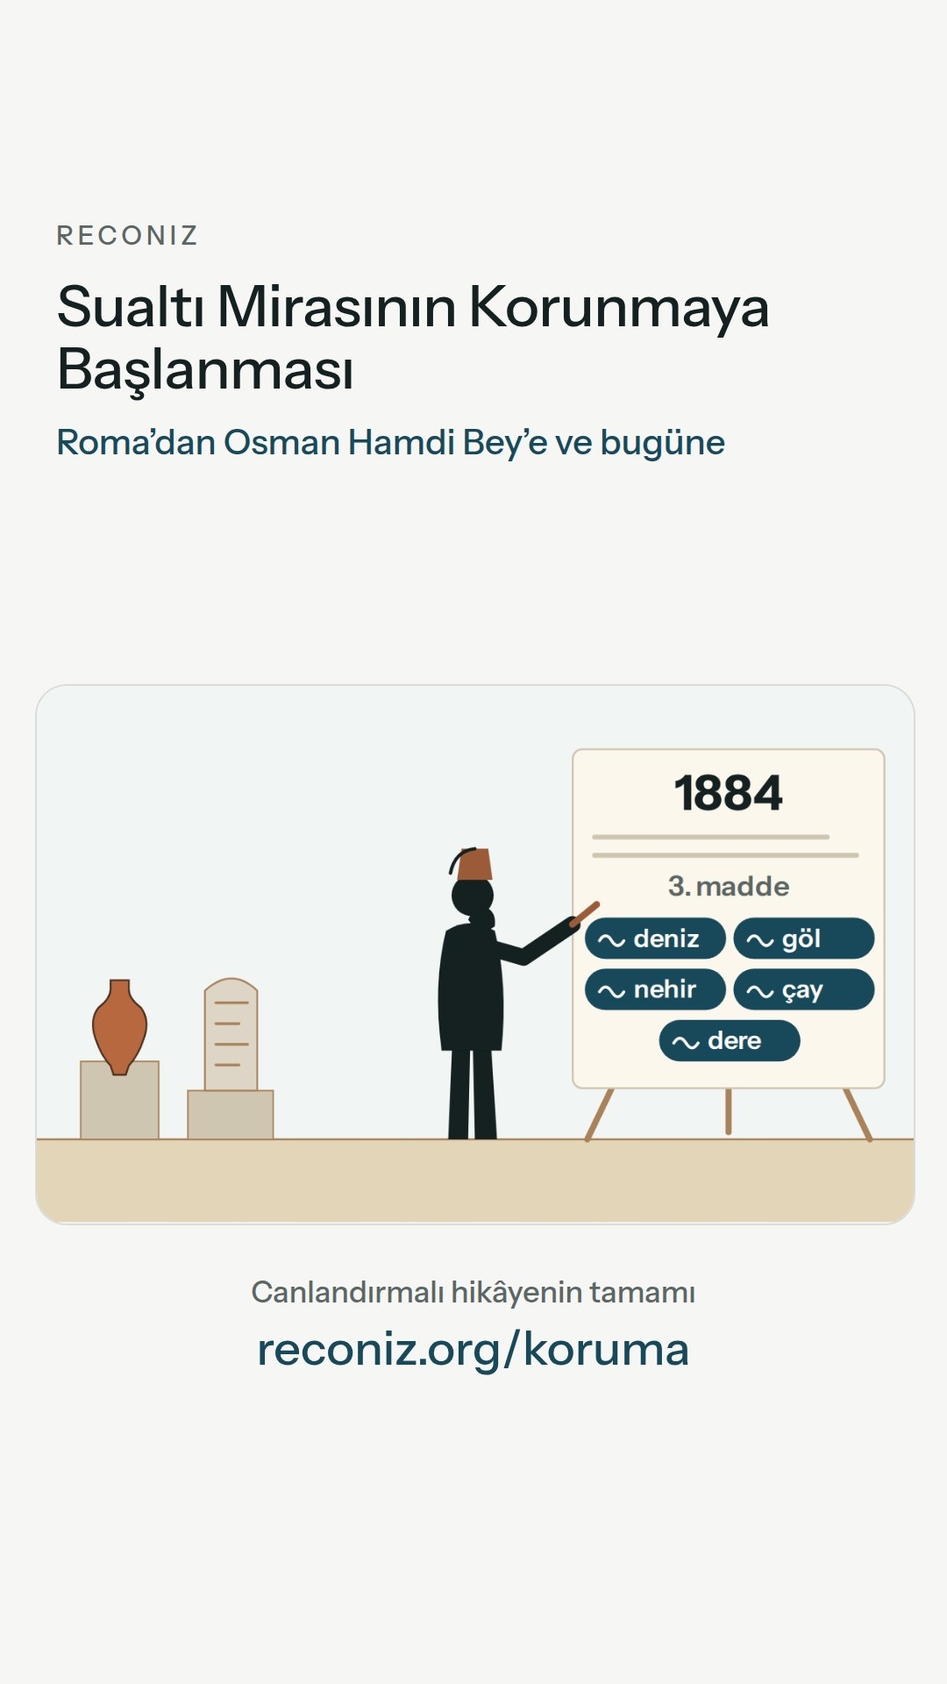
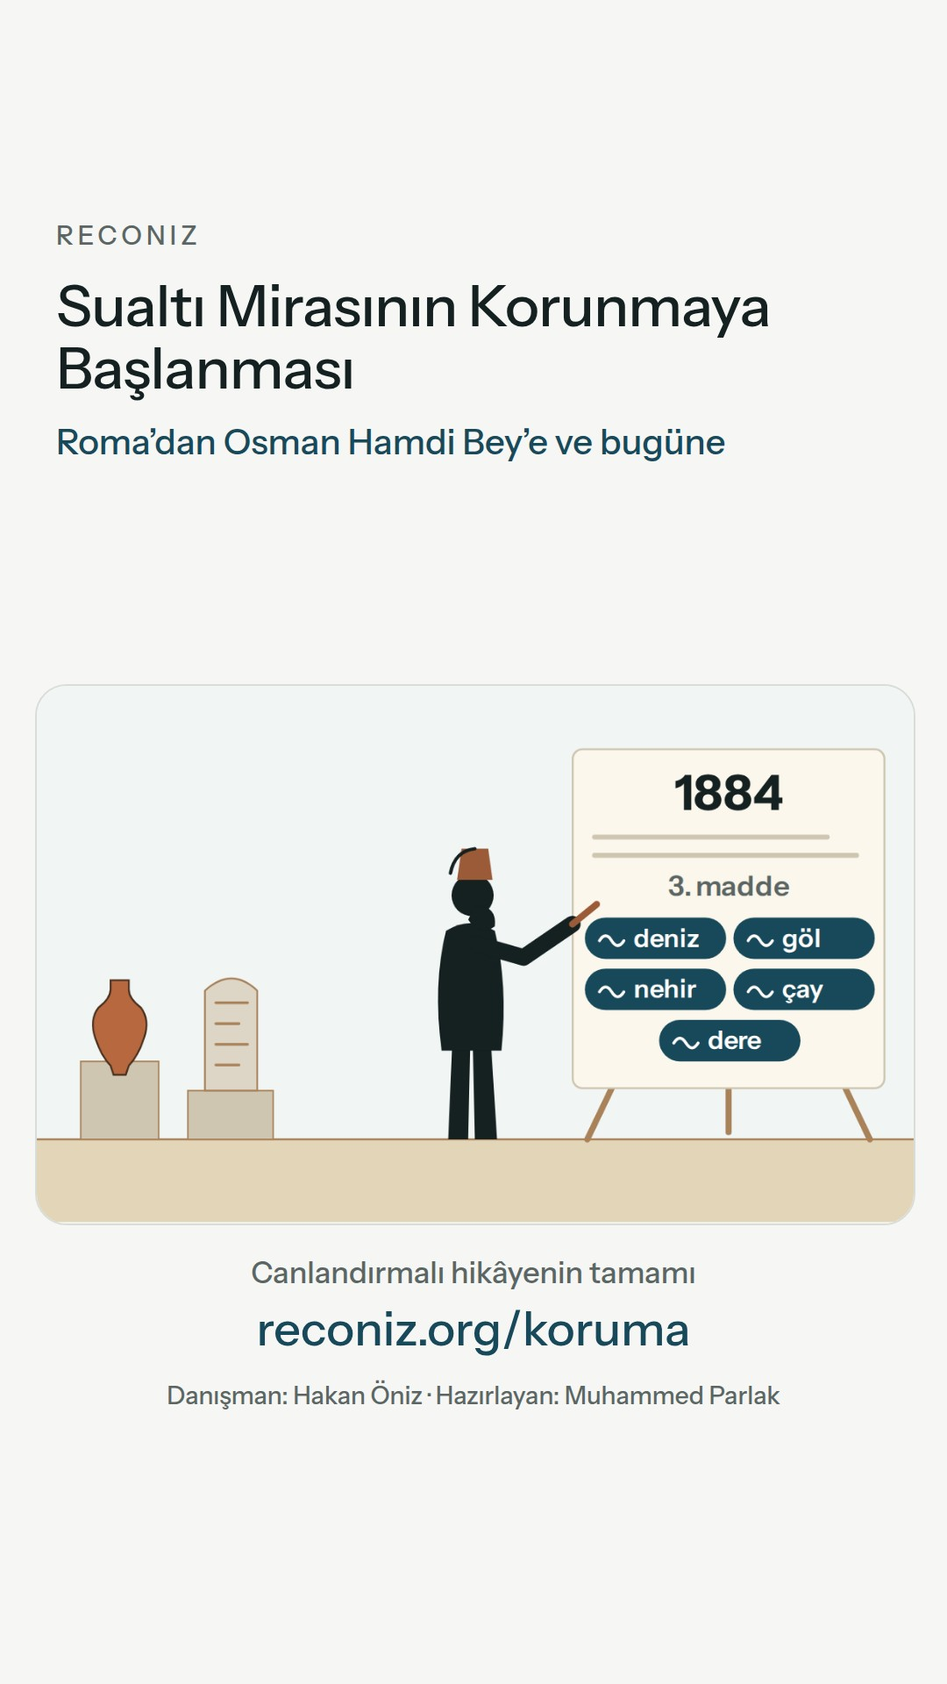
Adrasan: Çiçero girişi yayımlanmış bilgilerle sınırlandı; hikâye görsellerine danışman ve hazırlayan adı
Claude-Session: https://claude.ai/code/session_01KpGqkUWi5wxkv8FByy6VdA

Changed region(s): [[0.1833, 0.75, 0.825, 0.8438]]

diff --git a/onem/index.html b/onem/index.html
@@ -342,7 +342,7 @@ tr:{title:"Sualtı Mirasının Önemi ve Korunma Gerekçeleri",
  h1:"Sualtı Mirasının Önemi ve Korunma Gerekçeleri",
  lede:"Sualtı mirası neden önemlidir? Cevabı, iki bin yüz yıl önce yazılmış bir mektup ile aynı yüzyılda batmış bir geminin yükü birlikte veriyor.",
  S:[`MÖ 50 yılının şubatında Romalı devlet adamı Çiçero, valisi olduğu Kilikya’dan dostu Atticus’a bir mektup yazar.${n(1)}`,
-  `Mektubun bir satırı sofra takımı üzerinedir: “Rhosus kaplarını ısmarladım.” Ardından dostuna takılır: bizi hep süslü tabaklarda ağırlarsın, bakalım toprak kaplarda ne ikram edeceksin?${n(1)}`,
+  `Mektubun bir satırı sofra kapları üzerinedir: “Rhosus kaplarını ısmarladım.”${n(1)}`,
   `Rhosus, bugünkü Hatay’ın Arsuz ilçesidir. O yüzyılda İskenderun Körfezi kıyılarında kırmızı astarlı, ince sofra kapları üretilir; Doğu Akdeniz’in başlıca sofra kabı üretimlerinden biridir ve arkeologlar ona Doğu Sigillatası A der.${n(2)}`,
   `Aynı yüzyılın ortalarında bu kaplarla dolu bir gemi yola çıkar. Tabaklar, kâseler ve tepsiler ahşap sandıklara yerleştirilmiş, kırılmasınlar diye aralarına kil konmuştur.${n(3)}`,
   `Gemi Likya kıyısını izlerken, bugünkü Adrasan’ın önünde, büyük olasılıkla kıyıya yakın görünmeyen bir sığlığa çarpar ve batar.${n(4)}`,
@@ -351,19 +351,19 @@ tr:{title:"Sualtı Mirasının Önemi ve Korunma Gerekçeleri",
   `Kazı başlayınca sandıkların içindeki düzen de ortaya çıkar. Kaplar yüklendikleri gibi üst üste durmaktadır: 122 ayrı biçim ve boyda, aralarındaki kil sayesinde sağlam.${n(3)} Bugün bile, bütün modern yöntemlere rağmen, bir seramik tabağı kargoyla sağlam ulaştırmak güçtür; iki bin yıl dayanan bu yöntem belki yeniden ilham olur.`,
   `Bu, karada kolay ele geçmeyecek bir şeydir. Aynı kaplar kara kazılarında çoğu zaman kırık parçalar hâlinde, tek tek çıkar; burada ise bir geminin bütün yükü, yüklendiği günkü düzeniyle durur.`,
   `Yük aynı zamanda bir yolu gösterir. Kaplar doğuda, İskenderun Körfezi kıyısında üretilmiş, gemi ise oradan çok uzakta, batıda, Likya kıyısında batmıştır; batık, o ticaret yolunun üzerindeki bir noktadır.${n(2)}`,
-  `Asıl şaşırtıcı olan, yükün bir mektupla buluşmasıdır. Çiçero’nun bir satırda andığı kaplar ile deniz dibindeki tabaklar aynı kıyıdan, aynı yüzyıldan gelir. Mektup kabın adını verir, batık kabın kendisini. Arkeologlar bu eşleşmeyi kesin bir sonuç olarak değil, güçlü bir öneri olarak görür.${n(6)}`,
+  `Asıl şaşırtıcı olan, yükün bir mektupla buluşmasıdır. Çiçero’nun bir satırda andığı kaplar ile deniz dibindeki tabaklar aynı kıyıdan, aynı yüzyıldan gelir. Mektup kabın adını verir, batık kabın kendisini. Arkeologlar bu eşleşmeyi kesin bir sonuç olarak değil, gerekçeli bir öneri olarak görür.${n(6)}`,
   `Sualtı mirasını özel kılan budur: su, karada dağılıp gidecek olanı bir arada tutar; batıklar, kıyıları birbirine bağlayan yolları gösterir; dipteki eser, yazılı kaynağın anlattığını tamamlar.`,
   `Böyle yerlerin sayısı az değildir. Dünyanın sularında üç milyondan fazla batık ve batık yerleşim olduğu tahmin edilir; insanlık tarihinin büyük bölümünde deniz bugünkünden 40–130 metre alçak olduğu için, tarih öncesinin kıyıları da su altındadır.${n(7)}`,
   `Hiçbiri yenilenemez. Adrasan’daki sandıklardan tabaklar tek tek alınsaydı düzen dağılır, geriye yalnızca güzel kaplar kalırdı. Sualtı mirası yerinde ve bir arada durduğu sürece konuşur; korunma gerekçesi de budur.${n(8)}`],
- L:{shoal:"görünmeyen sığlık",cic:"Çiçero · Laodikeia, MÖ 50",ant:"Antalya",cyp:"Kıbrıs",km:"≈ 500 km",cil:"Kilikya",lyc:"Likya",rh:"Rhosus (Arsuz)",clay:"aralarında kil",depth:"38–46 m",au:"Akdeniz Üniversitesi",forms:"122 biçim ve boy",land:"karada: kırık parçalar",seaL:"denizde: bütün bir yük",ad:"Adrasan",prop:"kesin değil, güçlü bir öneri",
+ L:{shoal:"görünmeyen sığlık",cic:"Çiçero · Laodikeia, MÖ 50",ant:"Antalya",cyp:"Kıbrıs",km:"≈ 500 km",cil:"Kilikya",lyc:"Likya",rh:"Rhosus (Arsuz)",clay:"aralarında kil",depth:"38–46 m",au:"Akdeniz Üniversitesi",forms:"122 biçim ve boy",land:"karada: kırık parçalar",seaL:"denizde: bütün bir yük",ad:"Adrasan",prop:"kesin değil, gerekçeli bir öneri",
    pil:["bir arada","yollar","yazıyla birlikte"],lvl:"eski kıyı: 40–130 m aşağıda",wr:"batık ve batık yerleşim (tahmin)",insitu:"yerinde ve bir arada"},
  aH:"Rhosus kapları gerçekten bunlar mı?",
- aP:`Doğu Sigillatası A’nın üretim yeri, kil analizlerine ve kapların dağılımına bakılarak İskenderun Körfezi kıyısında aranır. Bu kapların Çiçero’nun andığı “Rhosica vasa” olduğu görüşü ikna edicidir, ama kesinleşmesi için bölgede yeni arazi çalışması gerekir. Bu sayfa da eşleşmeyi bir öneri olarak anlatır.${n(6)}`,
+ aP:`Doğu Sigillatası A’nın üretim yeri, kil analizlerine ve kapların dağılımına bakılarak İskenderun Körfezi kıyısında aranır. Bu kapların Çiçero’nun andığı “Rhosica vasa” olduğu görüşü gerekçeli bir öneridir; sınanabilmesi için Arsuz’da yeni arazi çalışması gerekir. Bu sayfa da eşleşmeyi bir öneri olarak anlatır.${n(6)}`,
  bH:"Adrasan batığı bugün",
- bP:`Batık, Akdeniz Üniversitesi’nin sualtı araştırmasında bulunmuş ve 2023’te yayımlanmıştır. Kazı, Kültür ve Turizm Bakanlığı’nın sorumluluğunda sürmektedir; 2026’da açıklanan sonuçlara göre binlerce kap çıkarılmış, çalışmalarda sualtı robotlarından da yararlanılmıştır.${n(9)}`,
+ bP:`Batık, Akdeniz Üniversitesi’nin sualtı araştırmasında bulunmuş, 2023’te Hakan Öniz ve Emre Okan tarafından yayımlanmıştır. Kazı, Kültür ve Turizm Bakanlığı’nın sorumluluğunda sürmektedir; 2026’da açıklanan sonuçlara göre binlerce kap çıkarılmış, çalışmalarda sualtı robotlarından da yararlanılmıştır.${n(9)}`,
  cH:"Onu ne tehdit eder?",
  cP:`Böyle bir batığı deniz kurdu, hatıra toplayan dalgıçlar, gemi çapaları, balıkçılık ve kıyıdaki yapılaşma tehdit eder. Yük bir arada ve yerinde durdukça okunabilir; dağıldığında anlattığı da dağılır.${n(8)}`,
- N:["Cicero (MÖ 50, 6.1.13).","Lund vd. (2006); Kalyoncuoğlu (2026).","Kalyoncuoğlu (2026).","Öniz ve Okan (2023).","Öniz ve Okan (2023); Levantine Ceramics Project (2026).","Lund vd. (2006); Carvajal (2026).","Khalil (2024, s. 12).","Öniz ve Okan (2023).","Öniz ve Okan (2023); Kalyoncuoğlu (2026)."],
+ N:["Cicero (MÖ 50, 6.1.13); Carvajal (2026).","Lund vd. (2006); Kalyoncuoğlu (2026).","Kalyoncuoğlu (2026).","Öniz ve Okan (2023).","Öniz ve Okan (2023); Levantine Ceramics Project (2026).","Lund vd. (2006); Carvajal (2026).","Khalil (2024, s. 12).","Öniz ve Okan (2023).","Öniz ve Okan (2023); Kalyoncuoğlu (2026)."],
  refH:"Kaynaklar", notesH:"Notlar", refNote:"Kaynakça APA 7. baskı biçimindedir.",
  hint:"Kaydırarak ilerleyin",
  useH:"Kullanım",
@@ -377,7 +377,7 @@ en:{title:"Why Underwater Heritage Matters and Why It Must Be Protected",
  h1:"Why Underwater Heritage Matters and Why It Must Be Protected",
  lede:"Why does underwater heritage matter? The answer is given jointly by a letter written two thousand one hundred years ago and the cargo of a ship that sank in the same century.",
  S:[`In February of 50 BC the Roman statesman Cicero writes a letter to his friend Atticus from Cilicia, the province he governs.${n(1)}`,
-  `One line of the letter is about tableware: “I have ordered the Rhosian ware.” Then he teases his friend: you always serve us on patterned dishes; let us see what you will offer on earthenware.${n(1)}`,
+  `One line of the letter is about tableware: “I have ordered the Rhosian ware.”${n(1)}`,
   `Rhosus is today’s Arsuz, in Hatay. In that century fine red-slipped tableware is made on the coast of the Gulf of İskenderun; it is one of the major tableware industries of the Eastern Mediterranean, and archaeologists call it Eastern Sigillata A.${n(2)}`,
   `Around the middle of the same century a ship full of this ware sets out. The plates, bowls and trays have been placed in wooden crates, with clay put between them so that they do not break.${n(3)}`,
   `As the ship follows the Lycian coast, off today’s Adrasan she probably strikes a hidden shoal close to the shore, and sinks.${n(4)}`,
@@ -386,19 +386,19 @@ en:{title:"Why Underwater Heritage Matters and Why It Must Be Protected",
   `When excavation begins, the order inside the crates comes to light as well. The vessels lie stacked as they were loaded: in 122 different shapes and sizes, intact thanks to the clay between them.${n(3)} Even today, with every modern method to hand, it is hard to send a ceramic plate by courier and have it arrive whole; a method that has held for two thousand years might yet inspire someone again.`,
   `This is something not easily found on land. In excavations on land the same ware mostly turns up as broken sherds, one by one; here the whole cargo of a ship lies in the order of the day it was loaded.`,
   `The cargo also shows a route. The vessels were made in the east, on the coast of the Gulf of İskenderun; the ship sank far to the west, on the Lycian coast. The wreck is a point on that trade route.${n(2)}`,
-  `Most surprising of all, the cargo meets a letter. The ware Cicero mentions in a single line and the plates on the seabed come from the same coast and the same century. The letter gives the name of the ware; the wreck gives the ware itself. Archaeologists treat this match not as a settled result but as a strong proposal.${n(6)}`,
+  `Most surprising of all, the cargo meets a letter. The ware Cicero mentions in a single line and the plates on the seabed come from the same coast and the same century. The letter gives the name of the ware; the wreck gives the ware itself. Archaeologists treat this match not as a settled result but as a reasoned proposal.${n(6)}`,
   `This is what makes underwater heritage special: water keeps together what would be scattered and lost on land; wrecks show the routes that linked one shore to another; the object on the seabed completes what the written source tells.`,
   `Such places are not few. It is estimated that there are more than three million wrecks and sunken settlements in the waters of the world; and since for most of human history the sea stood 40–130 metres lower than today, the shores of prehistory are under water too.${n(7)}`,
   `None of them can be renewed. Had the plates been taken from the crates at Adrasan one by one, the order would have been scattered and only fine vessels would have been left. Underwater heritage speaks as long as it stays in its place and stays together; that is the reason to protect it.${n(8)}`],
- L:{shoal:"hidden shoal",cic:"Cicero · Laodicea, 50 BC",ant:"Antalya",cyp:"Cyprus",km:"≈ 500 km",cil:"Cilicia",lyc:"Lycia",rh:"Rhosus (Arsuz)",clay:"clay between them",depth:"38–46 m",au:"Akdeniz University",forms:"122 shapes and sizes",land:"on land: broken sherds",seaL:"in the sea: a whole cargo",ad:"Adrasan",prop:"not certain: a strong proposal",
+ L:{shoal:"hidden shoal",cic:"Cicero · Laodicea, 50 BC",ant:"Antalya",cyp:"Cyprus",km:"≈ 500 km",cil:"Cilicia",lyc:"Lycia",rh:"Rhosus (Arsuz)",clay:"clay between them",depth:"38–46 m",au:"Akdeniz University",forms:"122 shapes and sizes",land:"on land: broken sherds",seaL:"in the sea: a whole cargo",ad:"Adrasan",prop:"not certain: a reasoned proposal",
    pil:["kept together","routes","together with texts"],lvl:"old shore: 40–130 m lower",wr:"wrecks and sunken settlements (estimate)",insitu:"in place and together"},
  aH:"Is this really the Rhosian ware?",
- aP:`The place where Eastern Sigillata A was made is sought on the coast of the Gulf of İskenderun, on the evidence of clay analyses and of how the ware is distributed. The view that this is the “Rhosica vasa” Cicero mentions is persuasive, but new fieldwork in the region is needed before it can be settled. This page, too, presents the match as a proposal.${n(6)}`,
+ aP:`The place where Eastern Sigillata A was made is sought on the coast of the Gulf of İskenderun, on the evidence of clay analyses and of how the ware is distributed. The view that this is the “Rhosica vasa” Cicero mentions is a reasoned proposal; it can only be tested by new fieldwork at Arsuz. This page, too, presents the match as a proposal.${n(6)}`,
  bH:"The Adrasan wreck today",
- bP:`The wreck was found during an underwater survey by Akdeniz University and published in 2023. Excavation continues under the responsibility of the Ministry of Culture and Tourism of Türkiye; according to the results announced in 2026, thousands of vessels have been raised, and underwater robots have been used in the work.${n(9)}`,
+ bP:`The wreck was found during an underwater survey by Akdeniz University and was published in 2023 by Hakan Öniz and Emre Okan. Excavation continues under the responsibility of the Ministry of Culture and Tourism of Türkiye; according to the results announced in 2026, thousands of vessels have been raised, and underwater robots have been used in the work.${n(9)}`,
  cH:"What threatens it?",
  cP:`A wreck like this is threatened by the shipworm, by divers collecting souvenirs, by ships’ anchors, by fishing and by building along the coast. The cargo can be read as long as it stays together and in place; once it is scattered, what it has to tell is scattered too.${n(8)}`,
- N:["Cicero (50 BCE, 6.1.13).","Lund et al. (2006); Kalyoncuoğlu (2026).","Kalyoncuoğlu (2026).","Öniz and Okan (2023).","Öniz and Okan (2023); Levantine Ceramics Project (2026).","Lund et al. (2006); Carvajal (2026).","Khalil (2024, p. 12).","Öniz and Okan (2023).","Öniz and Okan (2023); Kalyoncuoğlu (2026)."],
+ N:["Cicero (50 BCE, 6.1.13); Carvajal (2026).","Lund et al. (2006); Kalyoncuoğlu (2026).","Kalyoncuoğlu (2026).","Öniz and Okan (2023).","Öniz and Okan (2023); Levantine Ceramics Project (2026).","Lund et al. (2006); Carvajal (2026).","Khalil (2024, p. 12).","Öniz and Okan (2023).","Öniz and Okan (2023); Kalyoncuoğlu (2026)."],
  refH:"References", notesH:"Notes", refNote:"The reference list follows APA 7th edition.",
  hint:"Scroll to continue",
  useH:"Use",
@@ -412,7 +412,7 @@ es:{title:"La importancia del patrimonio subacuático y las razones para protege
  h1:"La importancia del patrimonio subacuático y las razones para protegerlo",
  lede:"¿Por qué importa el patrimonio subacuático? La respuesta la dan juntos una carta escrita hace dos mil cien años y el cargamento de un barco que se hundió en el mismo siglo.",
  S:[`En febrero del año 50 a. C. el estadista romano Cicerón escribe una carta a su amigo Ático desde Cilicia, la provincia que gobierna.${n(1)}`,
-  `Una línea de la carta trata de la vajilla: «He encargado la vajilla de Rhosus». Y a continuación bromea con su amigo: siempre nos sirves en fuentes decoradas; veamos qué nos ofreces en loza.${n(1)}`,
+  `Una línea de la carta trata de la vajilla: «He encargado la vajilla de Rhosus».${n(1)}`,
   `Rhosus es la actual Arsuz, en Hatay. En ese siglo se fabrica en la costa del golfo de İskenderun una vajilla fina de engobe rojo; es una de las grandes producciones de vajilla del Mediterráneo oriental, y los arqueólogos la llaman Sigillata Oriental A.${n(2)}`,
   `Hacia mediados del mismo siglo zarpa un barco cargado con esa vajilla. Los platos, cuencos y bandejas van en cajas de madera, con arcilla entre ellos para que no se rompan.${n(3)}`,
   `Mientras el barco sigue la costa de Licia, frente a la actual Adrasan choca probablemente con un bajío oculto cerca de la orilla, y se hunde.${n(4)}`,
@@ -421,19 +421,19 @@ es:{title:"La importancia del patrimonio subacuático y las razones para protege
   `Al empezar la excavación aparece también el orden del interior de las cajas. Las piezas están apiladas tal como se cargaron: en 122 formas y tamaños distintos, intactas gracias a la arcilla que las separa.${n(3)} Aún hoy, con todos los métodos modernos, es difícil que un plato de cerámica llegue entero por mensajería; un método que ha resistido dos mil años quizá vuelva a servir de inspiración.`,
   `Esto es algo que en tierra no se encuentra fácilmente. En las excavaciones terrestres esta misma vajilla aparece casi siempre en fragmentos, pieza a pieza; aquí está el cargamento entero de un barco, en el orden del día en que se cargó.`,
   `El cargamento muestra además una ruta. Las piezas se fabricaron en el este, en la costa del golfo de İskenderun; el barco se hundió muy lejos, al oeste, en la costa de Licia. El pecio es un punto de esa ruta comercial.${n(2)}`,
-  `Lo más sorprendente es que el cargamento se encuentra con una carta. La vajilla que Cicerón menciona en una sola línea y los platos del fondo del mar proceden de la misma costa y del mismo siglo. La carta da el nombre de la vajilla; el pecio, la vajilla misma. Los arqueólogos no consideran esta correspondencia un resultado definitivo, sino una propuesta sólida.${n(6)}`,
+  `Lo más sorprendente es que el cargamento se encuentra con una carta. La vajilla que Cicerón menciona en una sola línea y los platos del fondo del mar proceden de la misma costa y del mismo siglo. La carta da el nombre de la vajilla; el pecio, la vajilla misma. Los arqueólogos no consideran esta correspondencia un resultado definitivo, sino una propuesta razonada.${n(6)}`,
   `Esto es lo que hace especial al patrimonio subacuático: el agua mantiene junto lo que en tierra se dispersaría y se perdería; los pecios muestran las rutas que unían una costa con otra; el objeto del fondo completa lo que cuenta la fuente escrita.`,
   `Lugares así no son pocos. Se calcula que en las aguas del mundo hay más de tres millones de pecios y asentamientos sumergidos; y como durante la mayor parte de la historia humana el mar estuvo entre 40 y 130 metros más bajo que hoy, también las costas de la prehistoria están bajo el agua.${n(7)}`,
   `Ninguno puede renovarse. Si los platos se hubieran sacado de las cajas de Adrasan uno a uno, el orden se habría deshecho y solo habrían quedado piezas hermosas. El patrimonio subacuático habla mientras sigue en su sitio y sigue junto; esa es la razón para protegerlo.${n(8)}`],
- L:{shoal:"bajío oculto",cic:"Cicerón · Laodicea, 50 a. C.",ant:"Antalya",cyp:"Chipre",km:"≈ 500 km",cil:"Cilicia",lyc:"Licia",rh:"Rhosus (Arsuz)",clay:"arcilla entre ellos",depth:"38–46 m",au:"Universidad de Akdeniz",forms:"122 formas y tamaños",land:"en tierra: fragmentos rotos",seaL:"en el mar: un cargamento entero",ad:"Adrasan",prop:"no es seguro: una propuesta sólida",
+ L:{shoal:"bajío oculto",cic:"Cicerón · Laodicea, 50 a. C.",ant:"Antalya",cyp:"Chipre",km:"≈ 500 km",cil:"Cilicia",lyc:"Licia",rh:"Rhosus (Arsuz)",clay:"arcilla entre ellos",depth:"38–46 m",au:"Universidad de Akdeniz",forms:"122 formas y tamaños",land:"en tierra: fragmentos rotos",seaL:"en el mar: un cargamento entero",ad:"Adrasan",prop:"no es seguro: una propuesta razonada",
    pil:["todo junto","rutas","junto con los textos"],lvl:"antigua costa: 40–130 m más abajo",wr:"pecios y asentamientos sumergidos (estimación)",insitu:"en su sitio y todo junto"},
  aH:"¿Es esta de verdad la vajilla de Rhosus?",
- aP:`El lugar de producción de la Sigillata Oriental A se busca en la costa del golfo de İskenderun, a partir de los análisis de las arcillas y de la distribución de la vajilla. La idea de que se trata de la «Rhosica vasa» que menciona Cicerón es convincente, pero hace falta nuevo trabajo de campo en la región para confirmarla. Esta página también presenta la correspondencia como una propuesta.${n(6)}`,
+ aP:`El lugar de producción de la Sigillata Oriental A se busca en la costa del golfo de İskenderun, a partir de los análisis de las arcillas y de la distribución de la vajilla. La idea de que se trata de la «Rhosica vasa» que menciona Cicerón es una propuesta razonada; solo podrá ponerse a prueba con nuevo trabajo de campo en Arsuz. Esta página también presenta la correspondencia como una propuesta.${n(6)}`,
  bH:"El pecio de Adrasan hoy",
- bP:`El pecio se halló durante una prospección subacuática de la Universidad de Akdeniz y se publicó en 2023. La excavación continúa bajo la responsabilidad del Ministerio de Cultura y Turismo de Türkiye; según los resultados anunciados en 2026, se han recuperado miles de piezas y en los trabajos se han empleado también robots subacuáticos.${n(9)}`,
+ bP:`El pecio se halló durante una prospección subacuática de la Universidad de Akdeniz y fue publicado en 2023 por Hakan Öniz y Emre Okan. La excavación continúa bajo la responsabilidad del Ministerio de Cultura y Turismo de Türkiye; según los resultados anunciados en 2026, se han recuperado miles de piezas y en los trabajos se han empleado también robots subacuáticos.${n(9)}`,
  cH:"¿Qué lo amenaza?",
  cP:`A un pecio así lo amenazan la broma, los buceadores que se llevan recuerdos, las anclas de los barcos, la pesca y la construcción en la costa. El cargamento puede leerse mientras sigue junto y en su sitio; cuando se dispersa, se dispersa también lo que tiene que contar.${n(8)}`,
- N:["Cicero (50 a. C., 6.1.13).","Lund et al. (2006); Kalyoncuoğlu (2026).","Kalyoncuoğlu (2026).","Öniz y Okan (2023).","Öniz y Okan (2023); Levantine Ceramics Project (2026).","Lund et al. (2006); Carvajal (2026).","Khalil (2024, p. 12).","Öniz y Okan (2023).","Öniz y Okan (2023); Kalyoncuoğlu (2026)."],
+ N:["Cicero (50 a. C., 6.1.13); Carvajal (2026).","Lund et al. (2006); Kalyoncuoğlu (2026).","Kalyoncuoğlu (2026).","Öniz y Okan (2023).","Öniz y Okan (2023); Levantine Ceramics Project (2026).","Lund et al. (2006); Carvajal (2026).","Khalil (2024, p. 12).","Öniz y Okan (2023).","Öniz y Okan (2023); Kalyoncuoğlu (2026)."],
  refH:"Referencias", notesH:"Notas", refNote:"La lista de referencias sigue la 7.ª edición de APA.",
  hint:"Desliza para continuar",
  useH:"Uso",

diff --git a/sw.js b/sw.js
@@ -1,5 +1,5 @@
 // RecOniz service worker: çevrimdışı çalışma için uygulama, model ve kütüphaneler önbellekte tutulur
-const C='reconiz-v39';
+const C='reconiz-v40';
 const CORE=['/','/rejoiner/','/coins/','/onem/','/teredo/','/koruma/','/sorumluluk/','/coins/data.json','/coins/model.json','/manifest.webmanifest','/icon-192.png','/icon-512.png','/icon-maskable-512.png','/apple-touch-icon.png','/favicon.svg','/favicon-32.png','/ml/ort.wasm.min.js','/ml/three.min.js','/ml/ort-wasm-simd.wasm','/ml/ort-wasm.wasm','/ml/u2netp.onnx.b64.txt'];
 self.addEventListener('install',e=>{e.waitUntil(caches.open(C).then(c=>c.addAll(CORE)).then(()=>self.skipWaiting()));});
 self.addEventListener('activate',e=>{e.waitUntil(caches.keys().then(ks=>Promise.all(ks.filter(k=>k!==C).map(k=>caches.delete(k)))).then(()=>self.clients.claim()));});
